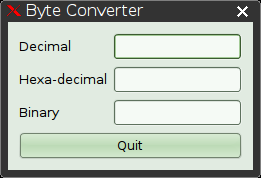
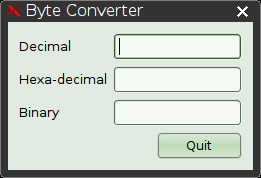
Right aligned quit button

Changed region(s): [[0.0613, 0.7303, 0.613, 0.8989], [0.705, 0.7865, 0.8276, 0.8708], [0.4291, 0.2247, 0.4598, 0.309]]

diff --git a/byte_converter.cpp b/byte_converter.cpp
@@ -38,7 +38,7 @@ byte_converter::byte_converter(){
 	// Create quit button
 
 	QPushButton* quit_btn = new QPushButton(tr("Quit"), this);
-	hbox->addWidget(quit_btn);
+	hbox->addWidget(quit_btn, 0, Qt::AlignRight);
 
 	quit_btn->setDefault(true);
 
